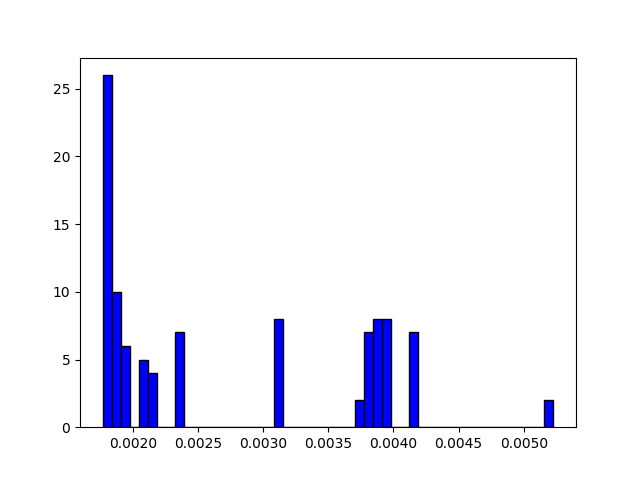
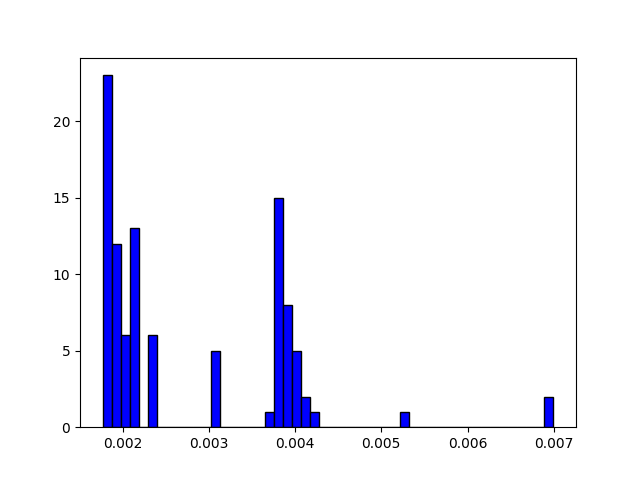
lab8: bit rate functions corrected, results updated

diff --git a/Core/science_utils.py b/Core/science_utils.py
@@ -4,24 +4,25 @@ from Core.utils import BERt
 from Core.utils import Rs
 from Core.utils import Bn
 
+from scipy import special
 
 def linear_to_db_conversion(x):
     return 10 * np.log10(x)
 
 
 def fixed_rate_condition(x):
-    if x >= 2 * (2 * BERt) * (Rs / Bn):
+    if x >= 2 * (special.erfcinv(2 * BERt) ** 2) * (Rs / Bn):
         return 100
     else:
         return 0
 
 
 def flex_rate_condition(x):
-    if x < 2 * (2 * BERt) * (Rs / Bn):
+    if x < 2 * (special.erfcinv(2 * BERt) ** 2) * (Rs / Bn):
         return 0
-    elif x < (14 / 3) * ((3 / 2) * BERt) * (Rs / Bn):
+    elif x < (14 / 3) * (special.erfcinv((3 / 2) * BERt) ** 2) * (Rs / Bn):
         return 100
-    elif x < 10 * ((8 / 3) * BERt) * (Rs / Bn):
+    elif x < 10 * (special.erfcinv((8 / 3) * BERt) ** 2) * (Rs / Bn):
         return 200
     else:
         return 400
